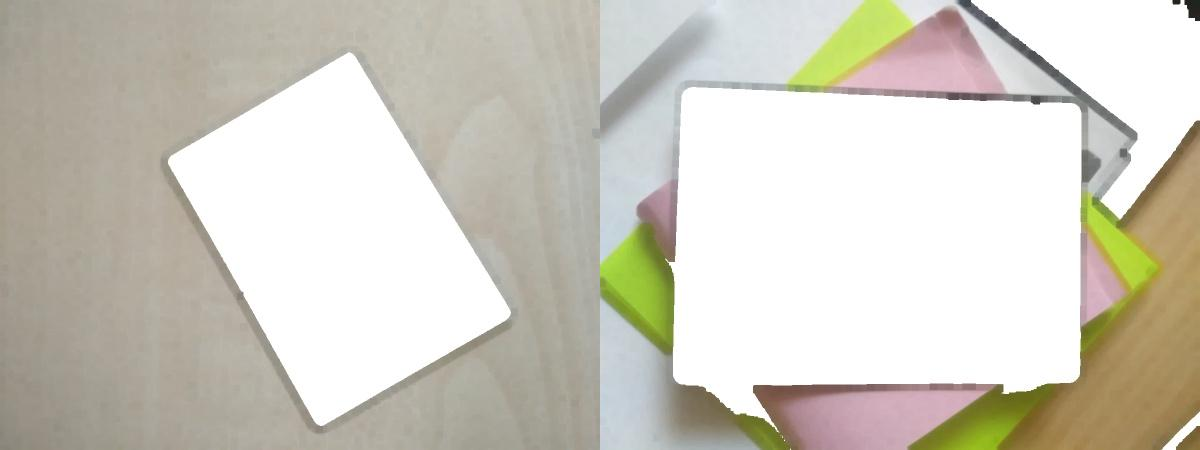
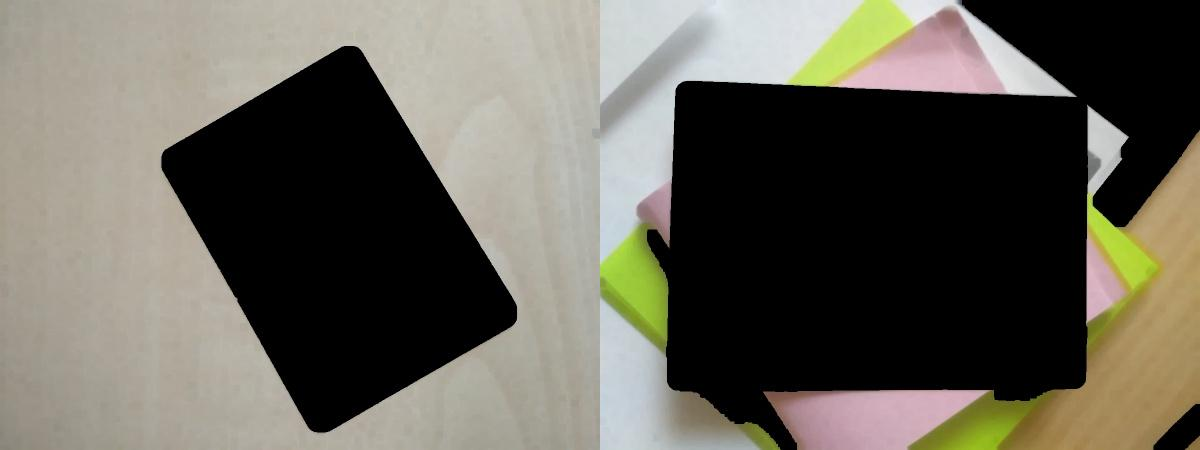
gitgnore

diff --git a/kck_cards.py b/kck_cards.py
@@ -17,7 +17,7 @@ def resizeImage(image, size, proportional):
 
 def drawContours(image, contours):
     for i in range(0, len(contours)):
-        color = (255, 255, 255)
+        color = (0, 0, 0)
         cv.drawContours(image, contours, i, color, -1)
         #cv.fillPoly(image, pts=[contours], color=(255, 255, 255))
         M = cv.moments(contours[i])
